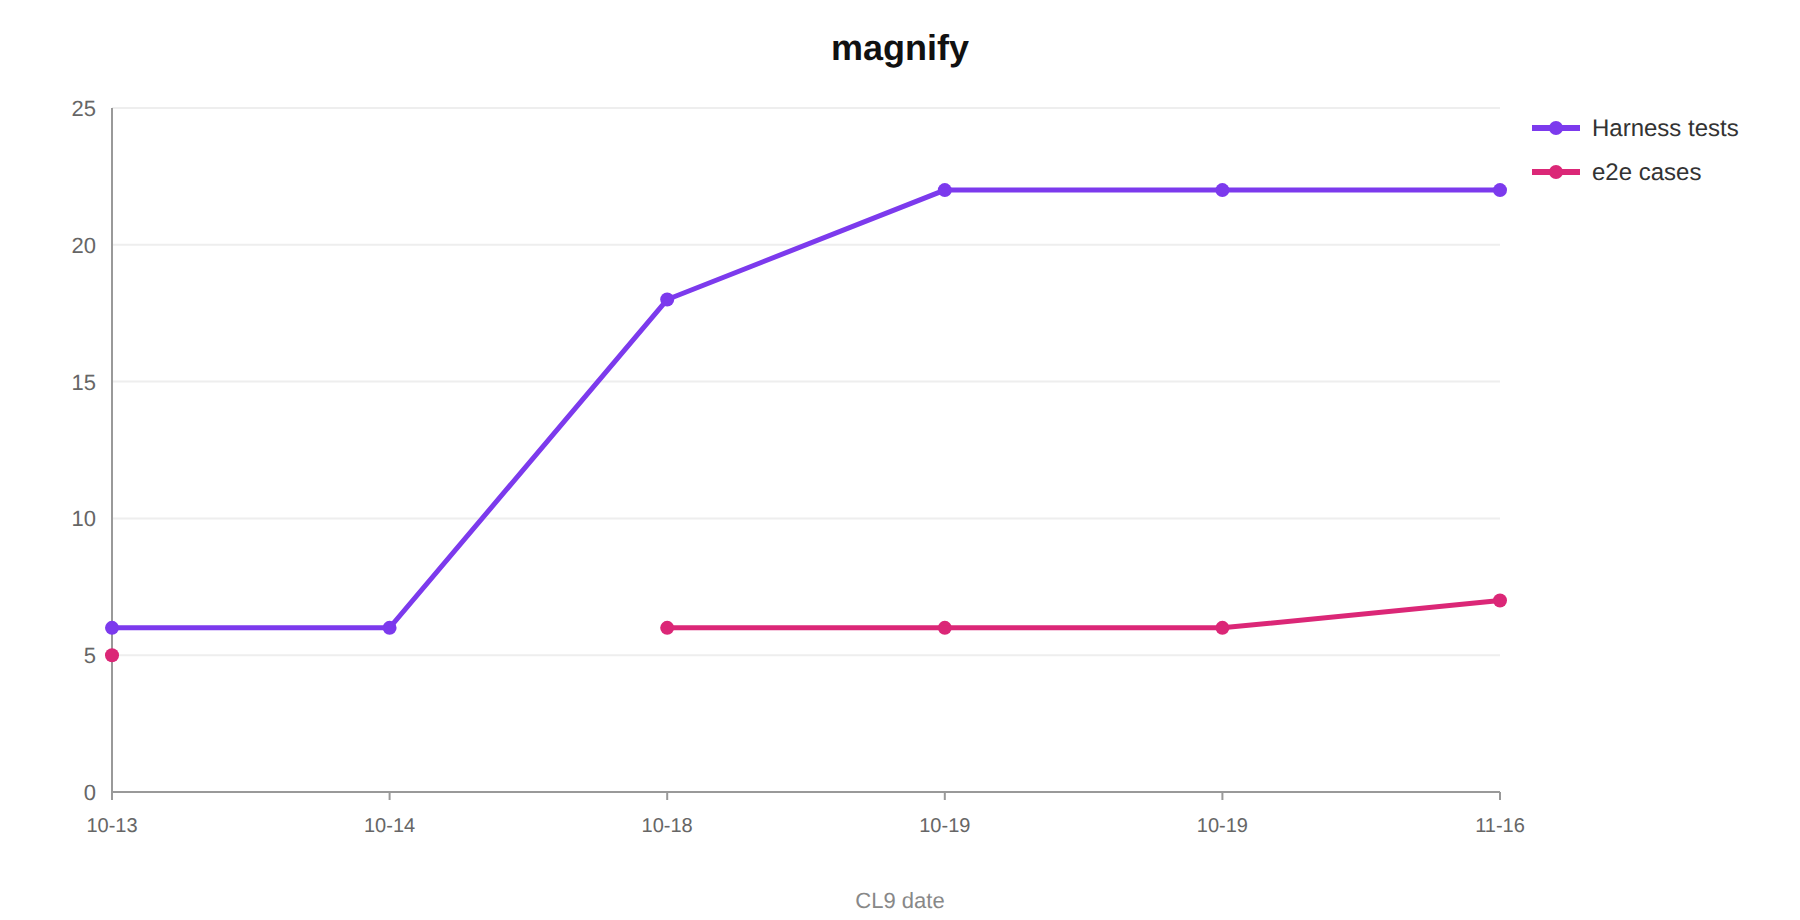
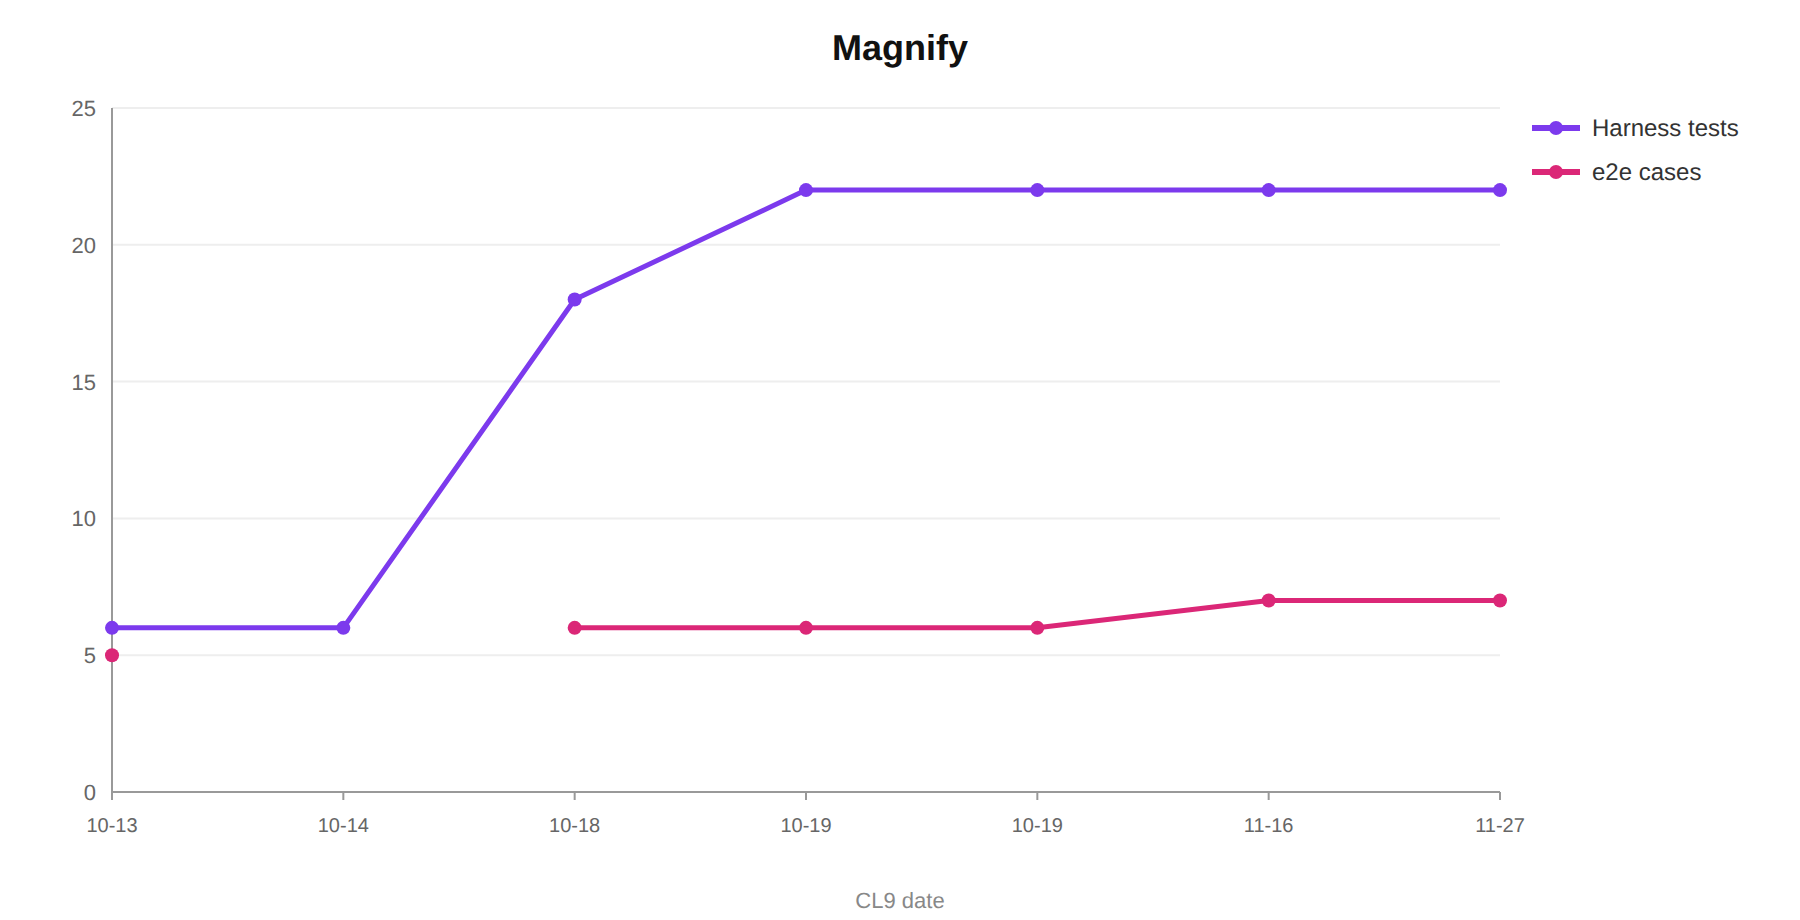
chore(magnify): 0.3.7 published — manifest entry and QA history

diff --git a/plugins/magnify/docs/qa/test-metrics-history.md b/plugins/magnify/docs/qa/test-metrics-history.md
@@ -12,6 +12,7 @@
 
 | Fecha | Cierre | Harness | Cobertura (líneas / ramas / funcs) | e2e | Notas |
 |---|---|---|---|---|---|
+| 2026-11-27 | `plugin/magnify@0.3.7` — **la búsqueda del editor lleva a la coincidencia, y su panel se queda arriba** | **22** ✅ (=) | 39.83 % / 80.95 % / 29.62 % (c8) (=) | 1 spec · 7 casos ✅ (=) | 🐛 El editor de YAML no tenía altura propia: crecía hasta el documento entero y quien hacía scroll era el `DialogContent`. La búsqueda de CodeMirror desplaza su propio scroller, que no tenía nada que desplazar, así que una coincidencia por debajo no se veía; y su panel, pegado a ese scroller, bajaba con el texto, que asomaba por encima. Ahora el `DialogContent` no hace scroll y el editor lo llena con altura y scroll propios. Verificado contra el dev con un ConfigMap de 200 líneas (la coincidencia de la línea 181 queda a la vista, el panel a 0 px del borde) en un spec temporal, que no entra en la suite. |
 | 2026-11-16 | `plugin/magnify@0.3.4` — **las ventanas se cierran de verdad**, al momento, y abren con el ticket de ruta vigente | **22** ✅ (=) | 39.83 % / 80.95 % / 29.62 % (c8) | 1 spec · 7 casos ✅ (+1) | Cazado en el QA de un router remoto, cuyo panel enseña las sesiones WebSocket vivas. 🐛 **Cerrar una ventana externa** (log, metrics, ops…) solo la quitaba de la lista: su canal seguía y su socket **seguía abierto** hasta recargar la página, y cada mensaje que le llegaba volvía a pintar Magnify entero. Ahora `closeContentExternal` manda el STOP, para el canal en el front y cierra el socket; lo llama `onWindowClose` (no el desmontaje: una ventana se desmonta y se monta al cambiar de capa) y `stopChannel` lo hace con todas. 🐛 **Cerrar o minimizar tardaba** «como si faltase el refresh»: cada ventana guardaba los callbacks de cuando se creó, que tras volver a montarse Magnify (otro tab de Kwirth y vuelta) caían en un `setTick` desmontado; `renderWindow` pasa ahora los actuales detrás del spread, y el `onRefresh` de las externas también. **`clusterUrl` vigente**: la ventana externa ya no copia la URL del tab, la lee de él, que el core mantiene viva con el ticket de ruta del momento (una shell o un fetch desde la ventana pasados 10 min salía rechazado). **Pantalla de canal sin arrancar**: `ChannelNotStarted` de `kwirth-common-front`, con su botón Start. Y lo pendiente: los detalles de objeto pintan el JSON con `JsonBlock` (fuera `react-json-view-lite`), `common-back` ^0.6.18. e2e: un caso nuevo — cerrar la ventana de Metrics cierra su socket — y `openMagnify` comprueba la pantalla sin arrancar y arranca con su botón. QA manual en k3d → AKS → EKS por Ianus, y en local |
 | 2026-10-19 | `plugin/magnify@0.3.1` — **borrar un pod ofrece `--force`**, y los namespaces dejan de ir anclados | **22** ✅ (=) | **30.68 % / 85.59 % / 36.12 %** | 1 spec · 6 casos ✅ (=) | **Dos cosas sin relación entre sí más allá de tocar las dos a Magnify.** **El force** es el `--force --grace-period=0` de kubectl y nada más: un *grace period* de **cero**. Va **por los dos caminos** —parámetro de query y `DeleteOptions` en el cuerpo—, que es lo que hace kubectl, y así deja de ser una pregunta cuál de los dos pone este cliente en el cable. Se **ofrece** y no se aplica por defecto, porque forzar no es borrar más rápido: el objeto sale de la API mientras el contenedor puede seguir vivo en su nodo. Es para un nodo inalcanzable cuyo pod no va a confirmar nunca que murió, y el diálogo lo dice. **Solo en Pods**: en un Deployment no hay nada que esperar, y una opción que no hace nada es una opción que enseña a marcarla. 🔴 **`'force'` viaja como ÚLTIMO parámetro y solo cuando se pide** — al final y no al principio para que una lista sin flag sea exactamente lo que siempre fue, todos los elementos objetos, sin tener que mandar nada en el caso normal. Dos intentos descartados antes de ese: un campo `force` en `IMagnifyMessage` se lo añadía a **todos** los comandos, y ponerlo primero obligaba a mandar el modo siempre. 🔴 **Y el desancle**: Magnify se escribió con `^patrón$` el 18, lo que lo dejaba **más estricto que cualquier otro canal leyendo la MISMA clave** — `getValidValues` del core hace `new RegExp(r).test(v)` sin anclar, así que `kwirth` alcanza `kwirth-system` en todas partes menos aquí. Un admin escribiendo `kwirth` habría tenido un namespace en Magnify y un prefijo en el resto, sin nada que lo explicara. Se desancla para igualar; quien lo quiera exacto escribe `^kwirth$`, y el editor de seguridad lo dice ahora encima del campo. La decisión se tomó cerrando [fileman-target](../../../../plans/completed/fileman-target/PLAN.md), donde la misma pregunta salió contra un exploit real |
 | 2026-10-19 | `plugin/magnify@0.3.0` — **la infraestructura es de administradores**: `read`/`write` son del desarrollador, y nodos, CRDs y cluster roles piden `cluster` | **22** ✅ (+4: la regla nueva y `canChange`) | **30.51 % / 85.59 % / 36.12 %** | 1 spec · 6 casos ✅ (=) | **`read` y `write` pasan a ser permisos de DESARROLLADOR** —workloads y configuración, en los namespaces que alcance la clave— y todo lo **cluster-scoped** (Node, CRD, PersistentVolume, ClusterRole, StorageClass, IngressClass, la lista de Namespaces) pide `cluster`, se mire **o se toque**. 🔴 **Sustituye a una regla de 0.2.0 que se leía bien y se portaba mal**: lo cluster-scoped lo veía cualquiera cuya clave no acotara namespaces, así que **añadir** un namespace para acotar una clave le **quitaba** los ClusterRoles — acotar por un eje movía otro sin avisar, que es el patrón que llevamos dos días quitando. 🔴 **Ver y cambiar se deciden con el MISMO nivel por kind** (`levelFor`), para que no puedan separarse por descuido: un desarrollador que no puede ver un nodo tampoco puede drenarlo. Las mutaciones se reparten en dos: `NODE`, `IMAGE` e `INGRESSCLASS` piden `cluster`; `CREATE`, `APPLY` y `DELETE` **no están en ninguna lista** porque llevan el YAML dentro, así que se deciden **objeto a objeto** por su kind — y se rechaza uno sin tirar el lote, que una selección de doce pods y un nodo debe aplicar a los doce. ⚠ **En el front, el `permission` de los items NO lo mira la librería**: `@jfvilas/react-file-manager` solo lee `permission` en los items que construye ella, de la prop `permissions`; en los personalizados el campo es decorativo. Por eso ponerlo no escondía nada y el `New config map` seguía en la barra de quien no podía crear. Lo que manda es **`isVisible(name, files, path)`**, que la librería consulta **tanto en el menú del listado como en la barra de la ventana de detalles** — una sola asignación cubre los dos sitios, que es justo lo que falló en el arreglo del 2026-10-14. Las acciones se marcan **en un bucle sobre todos los espacios** y no una a una: están declaradas en treinta y pico sitios de `RFMConfig.tsx`, y un `permission` escrito a mano en uno de ellos es un botón que acaba en rechazo. ⚠ **Consecuencia aceptada**: el Cluster Overview pierde los nodos para un `magnify$read`, y esa pantalla vive de ellos |
